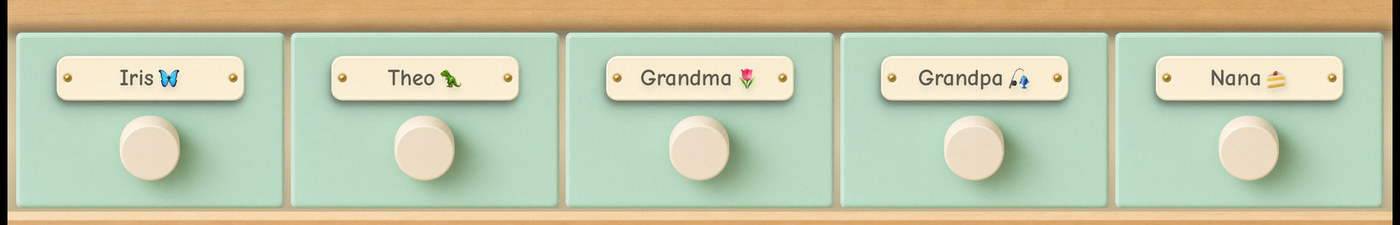
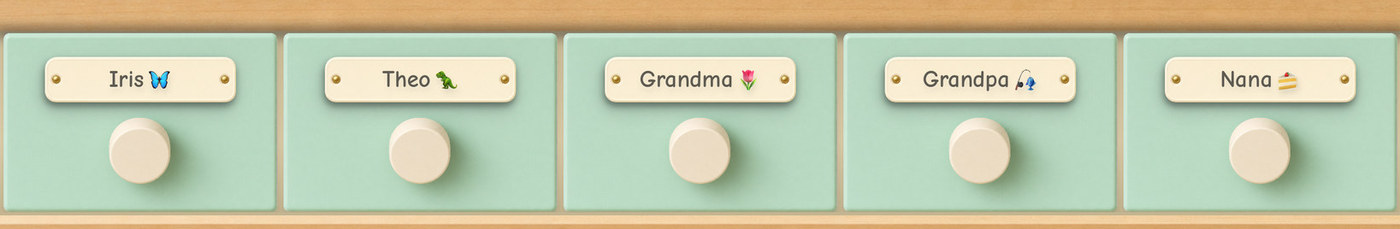
No black bars on the drawer row
The first crop was eyeballed and kept seven columns of bezel down each
edge. The inner edge is measured now: walk in from each side of the
capture until the black frame ends, then inset six more pixels. Height
follows from the new box.

diff --git a/index.html b/index.html
@@ -297,11 +297,13 @@
            the order the app puts them. This was five drawers cut from five
            DIFFERENT desks and floated apart, which read as five separate
            objects and made the row look assembled rather than photographed.
-           One crop of the mint desk, inside the bezel on all four sides. -->
+           One crop of the mint desk. The bezel's inner edge is FOUND rather than
+           guessed — walk in from each side until the black frame ends — because
+           eyeballing it left a seven-pixel black bar down both edges. -->
       <figure class="drawer-row">
         <img src="assets/drawer-row.jpg"
              alt="A row of five desk drawers, each with a wooden nameplate — Iris, Theo, Grandma, Grandpa and Nana"
-             width="1400" height="225" loading="lazy" />
+             width="1400" height="229" loading="lazy" />
       </figure>
     </section>
 
